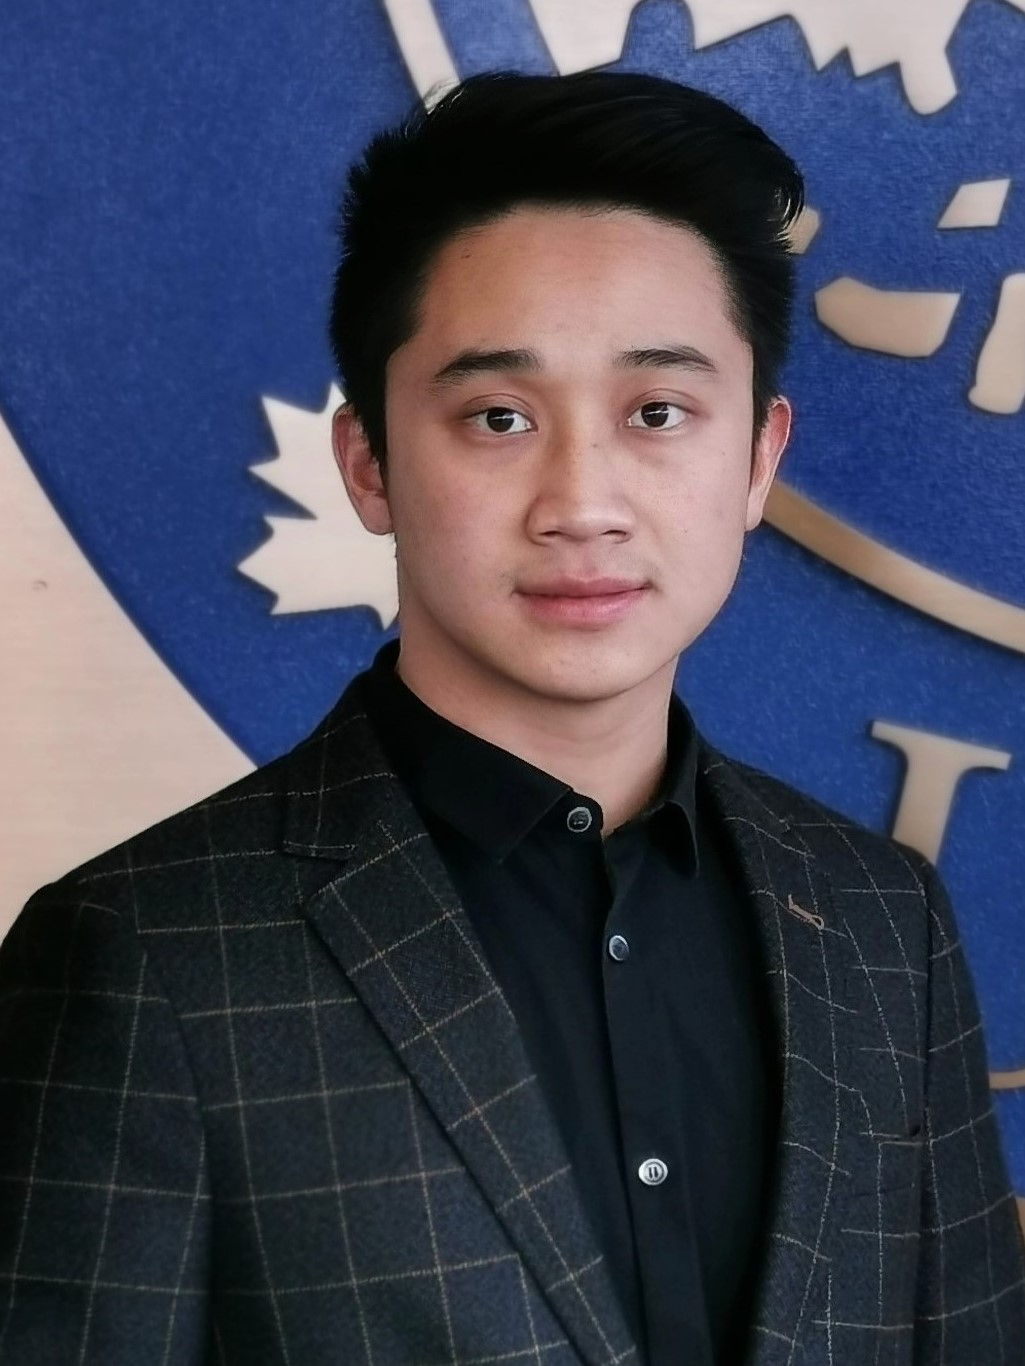
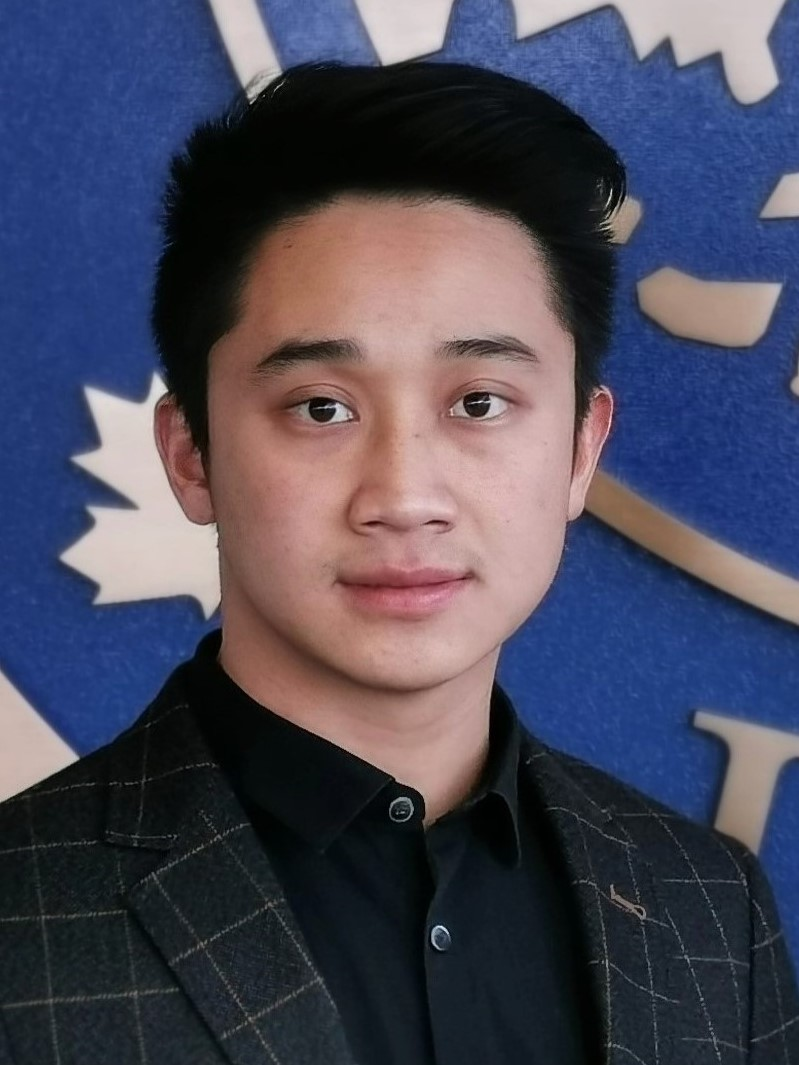
resize img

diff --git a/index.html b/index.html
@@ -33,11 +33,11 @@ content="Dongdong Wei, PhD, stduent, Reliability, Research, Mechanical, Engineer
 	<table style="background-color:white;">
 	<td VALIGN=center WIDTH="5%">
 	</td>
-	<td VALIGN=bottom>
-	<img SRC="./pics/chessboard-202002.jpg" height="230" align=right hspace="30">
+	<td VALIGN=center>
+	<img SRC="./pics/chessboard-202002.jpg" height="200" align=right hspace="30">
 	</td>
 	
-	<td VALIGN=bottom HALIGN=LEFT>
+	<td VALIGN=center HALIGN=LEFT>
 	<font size=+0>
 	<b><font size=+2>Dongdong WEI <A class=pdf href="./docs/DWei_resume.pdf">[resume]</A>&nbsp</font></b>
 	<p style="margin-left:0px;">
